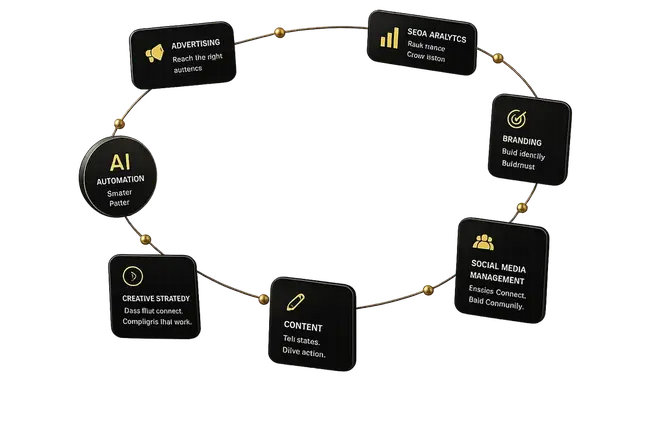
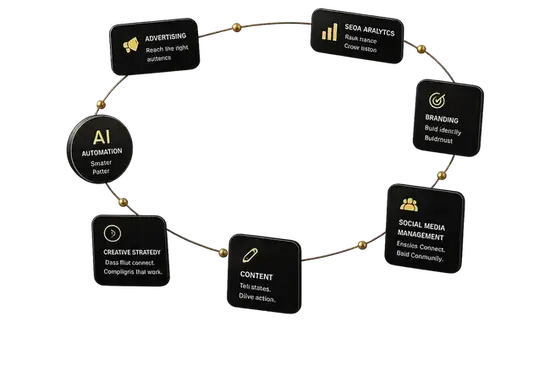
perf: resolve accessibility contrast issues and further compress hero and section WebP images

diff --git a/src/sections/Hero/Hero3DBlocks.jsx b/src/sections/Hero/Hero3DBlocks.jsx
@@ -27,8 +27,8 @@ const Hero3DBlocks = () => {
                     fetchPriority="high"
                     loading="eager"
                     decoding="async"
-                    width="600"
-                    height="600"
+                    width="500"
+                    height="500"
                     initial={{ opacity: 1, scale: 0.85 }}
                     animate={{ opacity: 1, scale: 0.85, y: [0, -8, 0] }}
                     transition={{
@@ -44,8 +44,8 @@ const Hero3DBlocks = () => {
                     fetchPriority="high"
                     loading="eager"
                     decoding="async"
-                    width="650"
-                    height="433"
+                    width="550"
+                    height="367"
                     initial={{ opacity: 1, scale: 1.4 }}
                     animate={{
                         opacity: 1,

diff --git a/src/sections/Footer/Footer.jsx b/src/sections/Footer/Footer.jsx
@@ -177,10 +177,10 @@ const Footer = () => {
 
                 {/* Bottom bar */}
                 <div className="border-t border-white/10 pt-6 flex flex-col sm:flex-row items-center justify-between gap-3">
-                    <p className="text-xs text-gray-500 font-['Plus_Jakarta_Sans']">
+                    <p className="text-xs text-gray-400 font-['Plus_Jakarta_Sans']">
                         © {year} Twoten Media. All rights reserved.
                     </p>
-                    <p className="text-xs text-gray-600 font-['Plus_Jakarta_Sans']">
+                    <p className="text-xs text-gray-400 font-['Plus_Jakarta_Sans']">
                         Kerala Chapter of Snapads Media &amp; Advertising LLC
                     </p>
                 </div>

diff --git a/src/sections/WhyChooseUs/WhyChooseUs.jsx b/src/sections/WhyChooseUs/WhyChooseUs.jsx
@@ -86,8 +86,8 @@ const WhyChooseUs = () => {
                             <img
                                 src={aboutImage}
                                 alt="TWOTEN MEDIA creative team working on digital marketing and media production"
-                                width="800"
-                                height="800"
+                                width="500"
+                                height="500"
                                 loading="lazy"
                                 decoding="async"
                                 className="w-full h-full object-cover group-hover:scale-105 transition-all duration-700 ease-out"

diff --git a/src/sections/About/About.jsx b/src/sections/About/About.jsx
@@ -24,8 +24,8 @@ const About = () => {
                         <img
                             src={aboutImage}
                             alt="TWOTEN MEDIA creative agency team working on digital marketing and content production"
-                            width="800"
-                            height="800"
+                            width="500"
+                            height="500"
                             loading="lazy"
                             decoding="async"
                             className="w-full h-full object-cover opacity-95 group-hover:scale-105 transition-all duration-700 ease-out"
